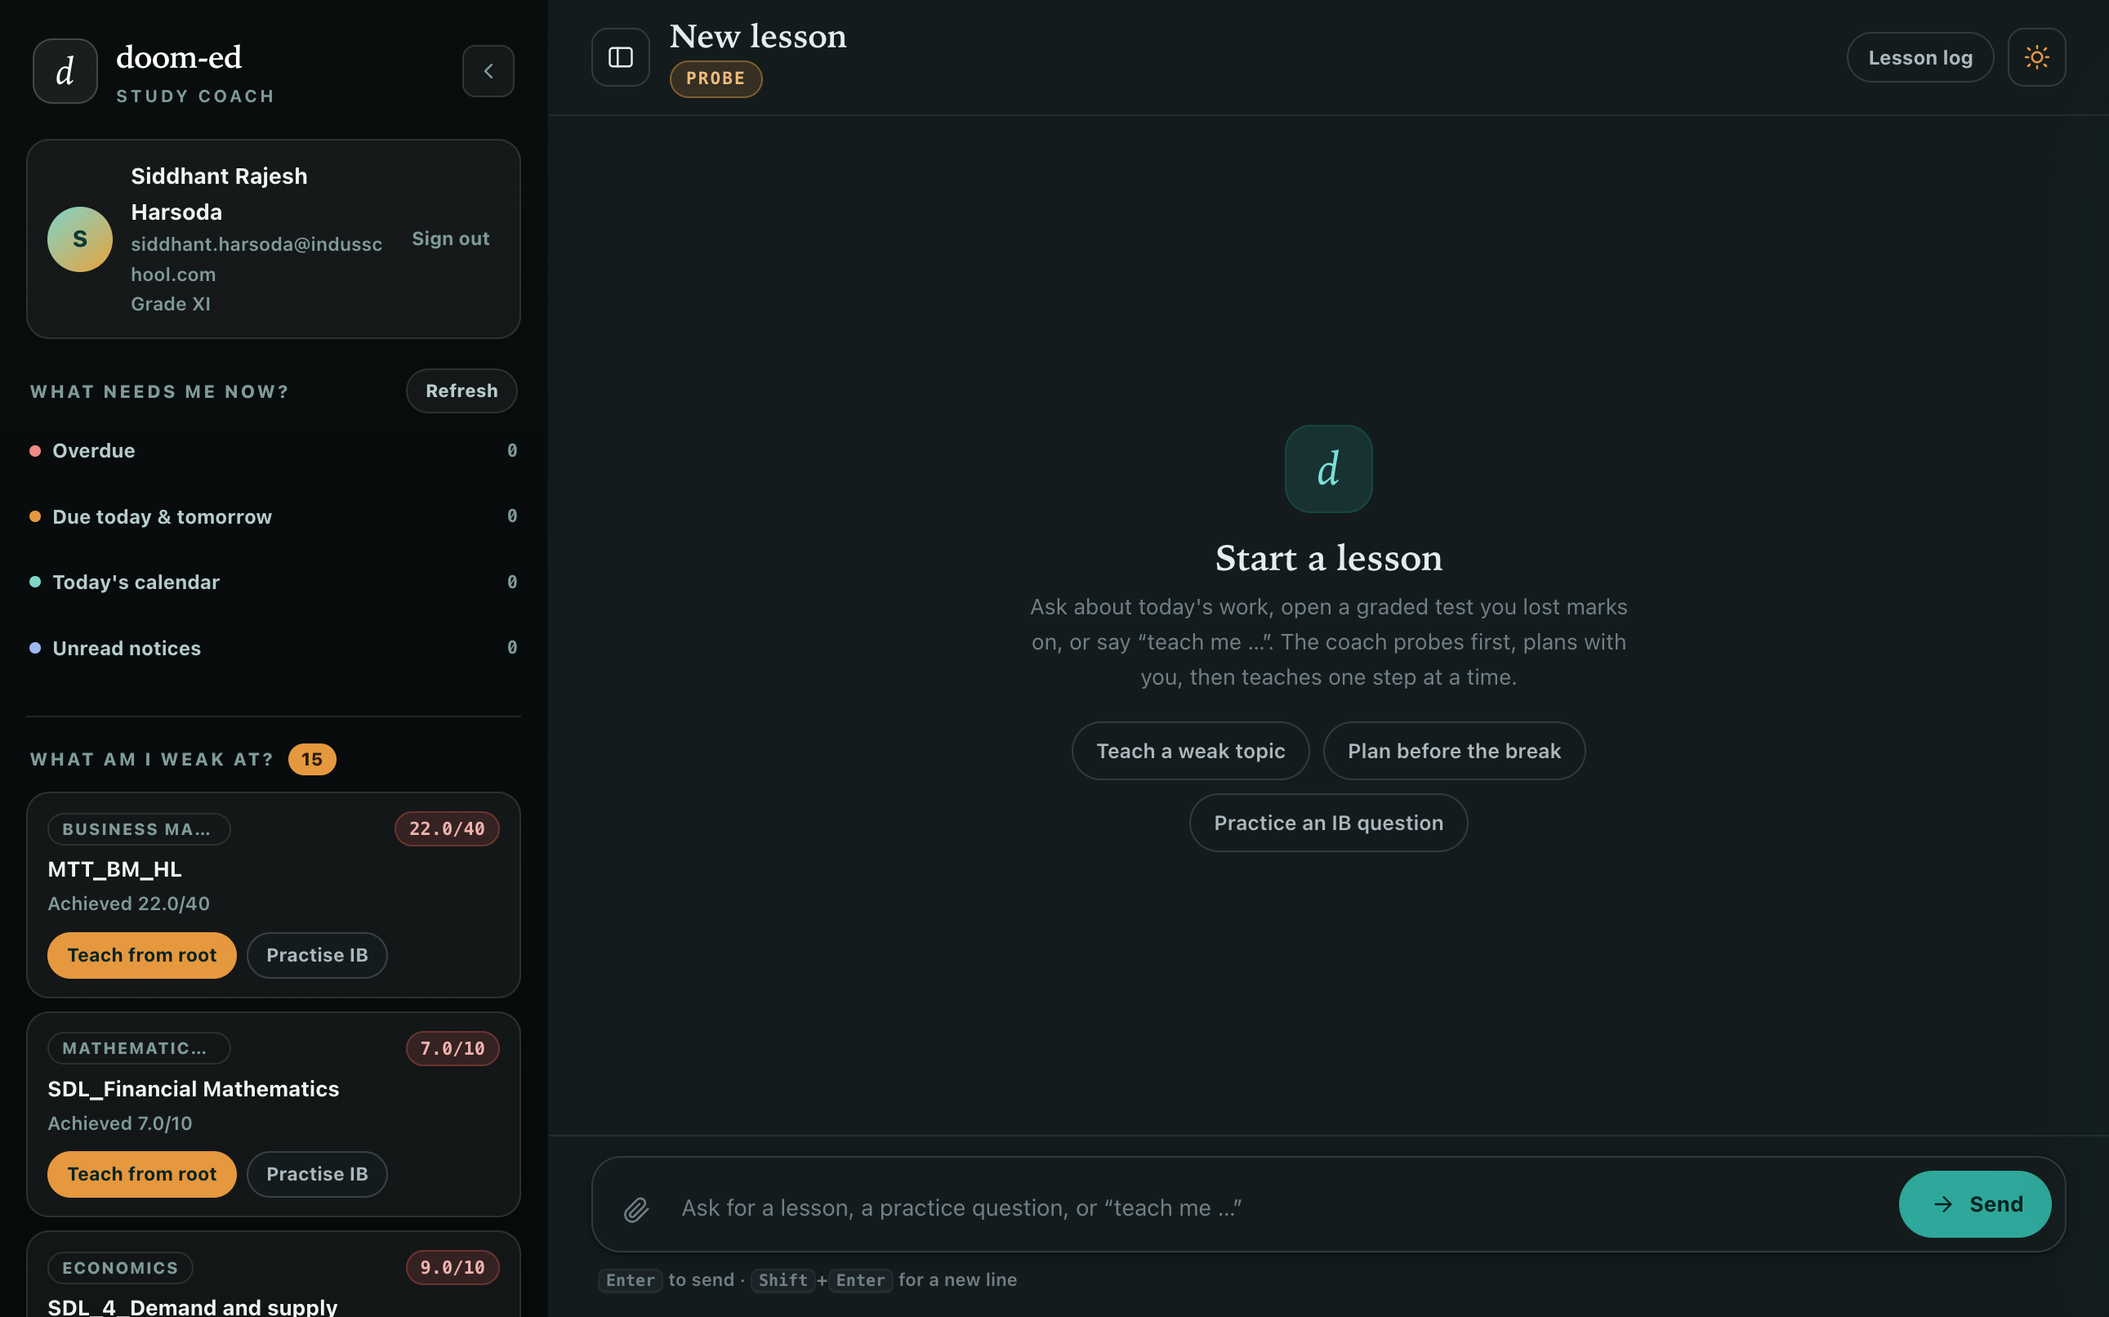
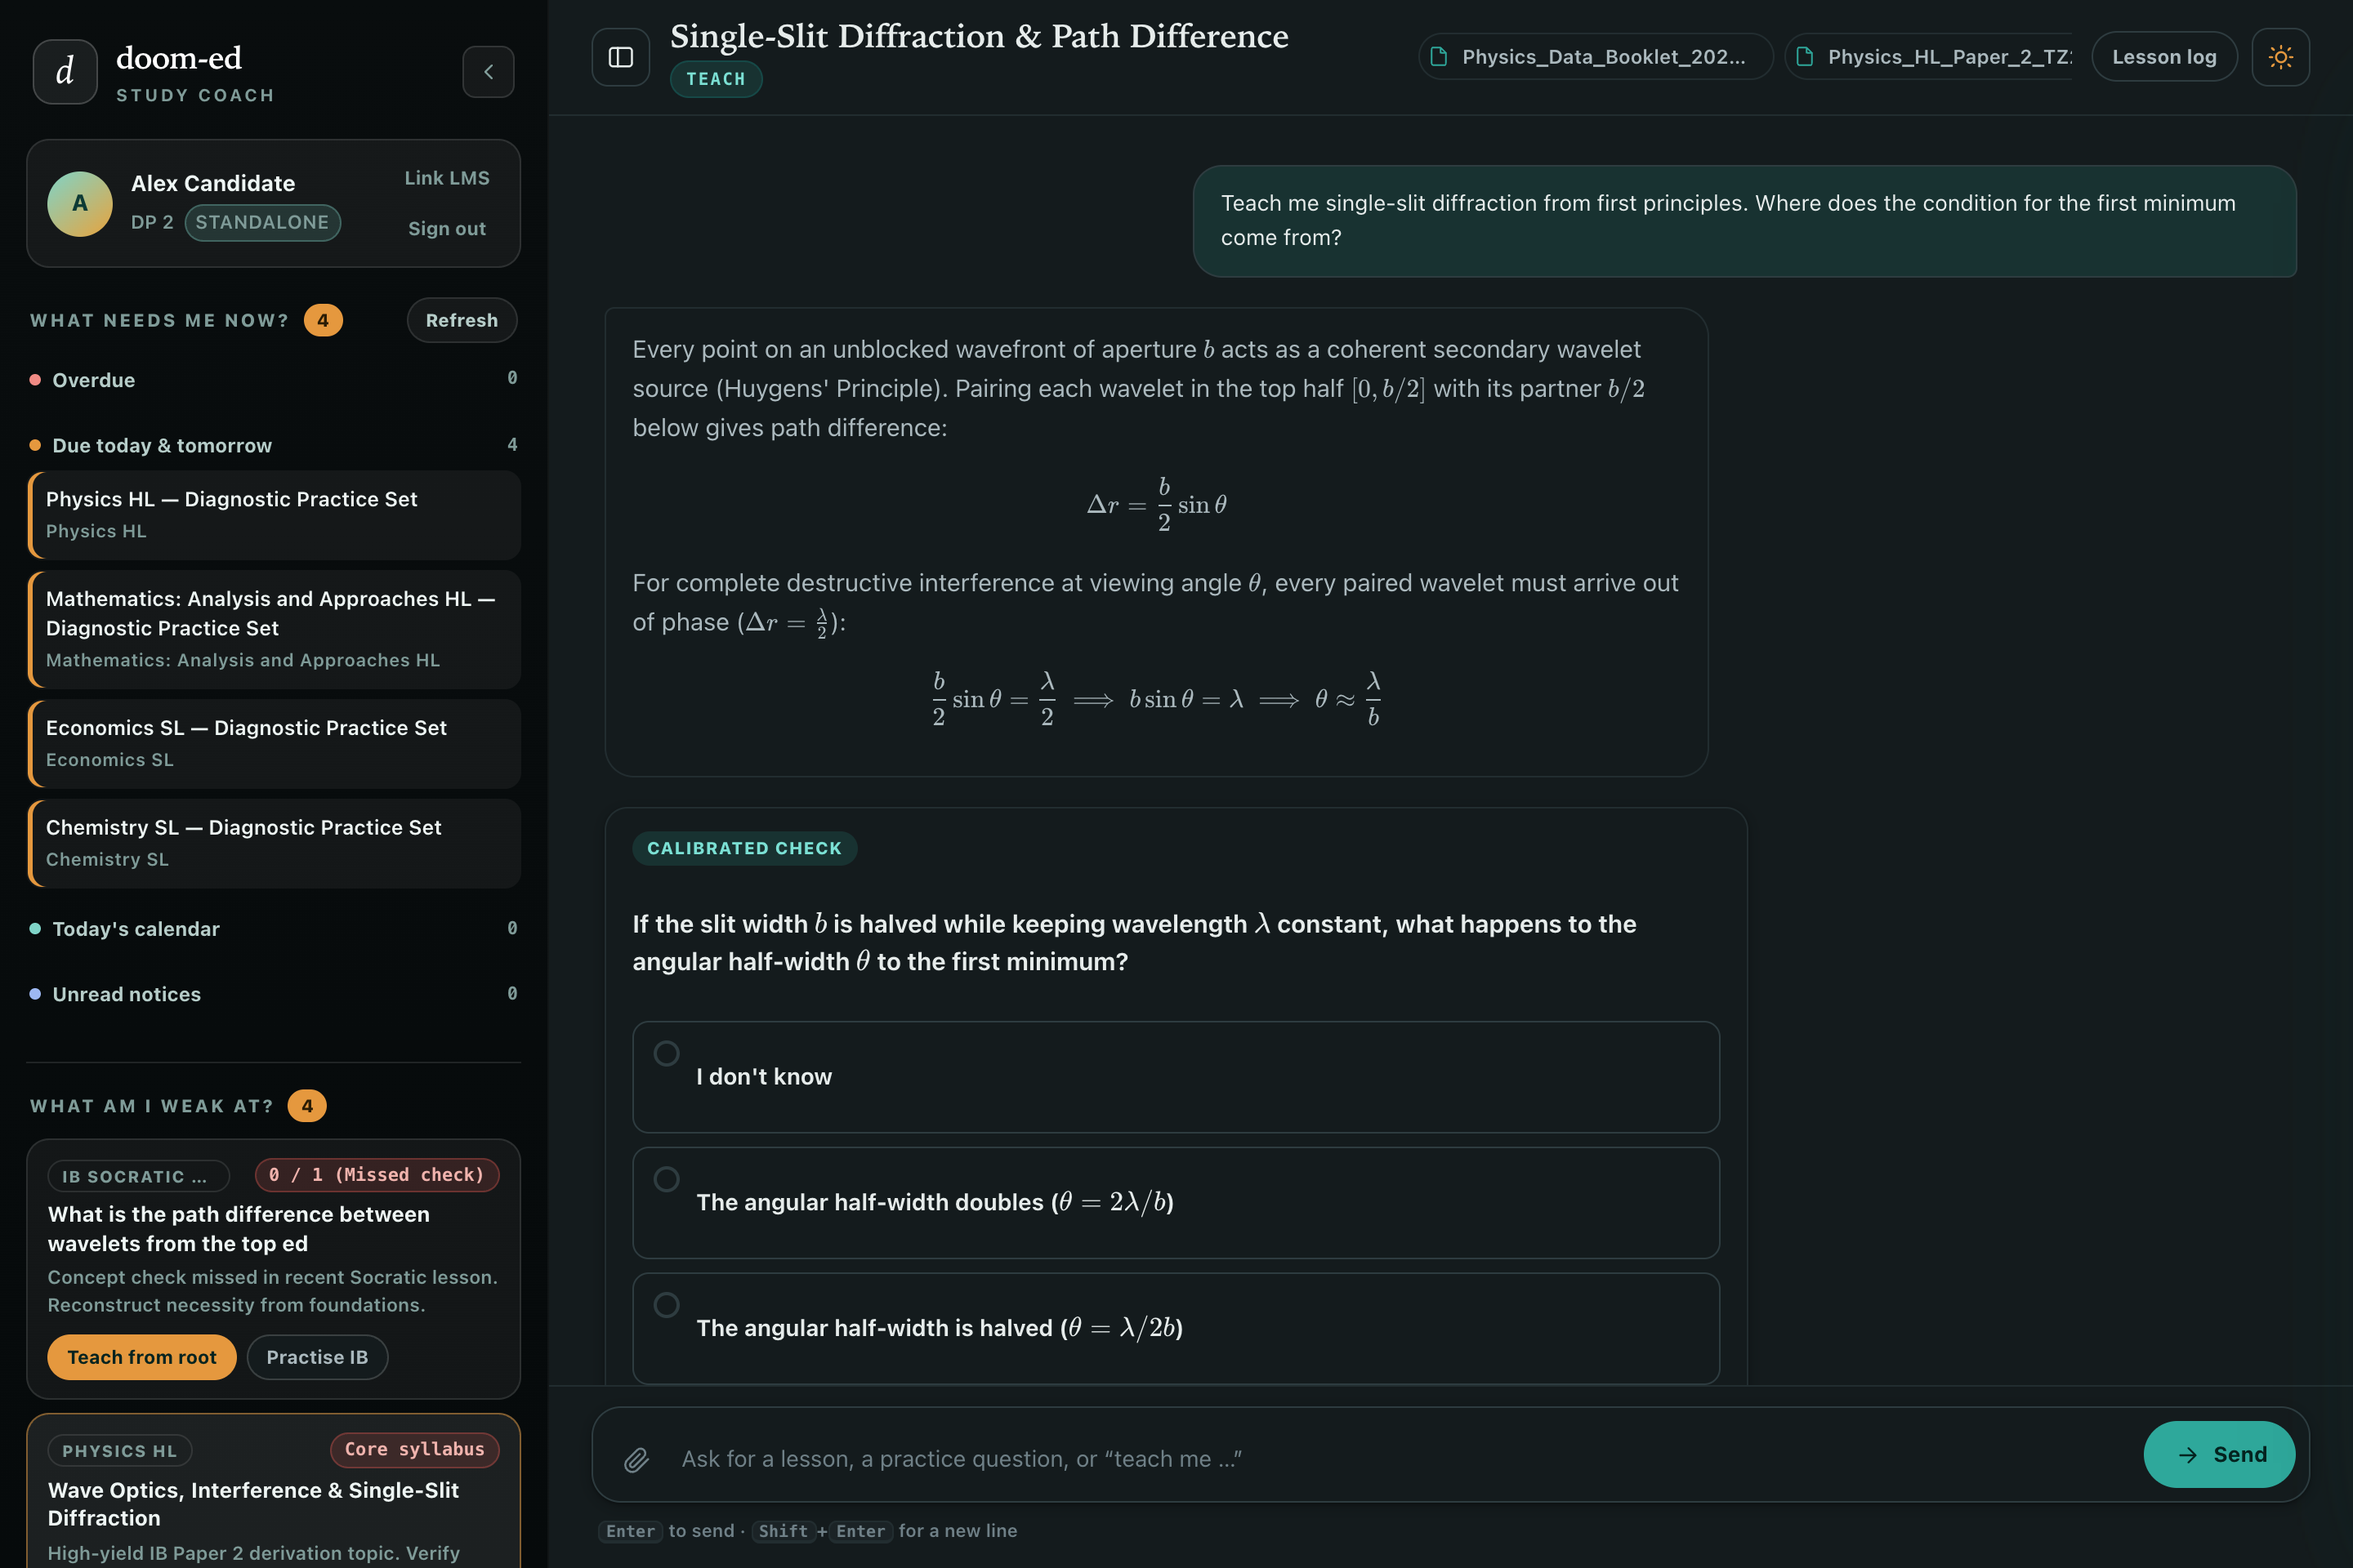
docs: update docs and refresh homepage screenshot with standalone ib ui
Update README, DOCS.md, and ARCHITECTURE.md to detail standalone
IB study and optional LMS sync. Replace docs/assets/homepage.png
with fresh high-DPI screenshot showcasing standalone profile,
IB diagnostic triage, Socratic chat, and concept check card.

diff --git a/web/assets/style.css b/web/assets/style.css
@@ -328,6 +328,7 @@ img, svg, video { max-width: 100%; }
 }
 .profile-id { flex: 1; min-width: 0; }
 .profile-id b { display: block; font-size: 13.5px; font-weight: 700; color: var(--lp-ink); overflow-wrap: anywhere; }
+.profile-meta-row { display: flex; align-items: center; gap: 6px; margin-top: 2px; }
 .profile-id span { display: block; font-size: 11.5px; font-weight: 600; color: var(--lp-muted); overflow-wrap: anywhere; }
 .profile-actions { display: flex; flex-direction: column; gap: 6px; align-items: stretch; }
 .signout-btn {
@@ -338,6 +339,8 @@ img, svg, video { max-width: 100%; }
 .signout-btn:hover { color: #f5a9a4; background: rgba(224, 106, 99, 0.14); }
 .lms-status-pill {
   display: inline-block;
+  white-space: nowrap;
+  flex-shrink: 0;
   padding: 1px 6px;
   border-radius: 999px;
   font-size: 10px;

diff --git a/web/index.html b/web/index.html
@@ -125,12 +125,12 @@
     <div id="profile-card" class="profile-card" title="Click to view student profile" hidden>
       <span id="profile-avatar" class="profile-avatar" aria-hidden="true">S</span>
       <div class="profile-id">
-        <div style="display:flex;align-items:center;gap:6px;">
-          <b id="profile-name">Student</b>
+        <b id="profile-name">Student</b>
+        <div class="profile-meta-row">
+          <span id="profile-grade"></span>
           <span id="lms-status-pill" class="lms-status-pill">Standalone</span>
         </div>
         <span id="profile-email"></span>
-        <span id="profile-grade"></span>
       </div>
       <div class="profile-actions">
         <button id="link-lms-btn" class="signout-btn" type="button" title="Link Indus LMS">Link LMS</button>

diff --git a/scripts/capture_screenshot.py b/scripts/capture_screenshot.py
@@ -1,0 +1,200 @@
+# SPDX-License-Identifier: GPL-3.0-or-later
+"""Script to capture a high-DPI screenshot of the doom-ed web application in standalone mode."""
+
+import json
+import os
+import socket
+import sys
+import threading
+import time
+from pathlib import Path
+
+import uvicorn
+from playwright.sync_api import sync_playwright
+
+from app.cache import clear as clear_cache
+from app.db import Database
+from app.main import app, db, session_store
+from app.sessions import Session
+
+
+def _find_free_port():
+    with socket.socket(socket.AF_INET, socket.SOCK_STREAM) as s:
+        s.bind(("127.0.0.1", 0))
+        return s.getsockname()[1]
+
+
+def capture():
+    clear_cache()
+    port = _find_free_port()
+    config = uvicorn.Config(app, host="127.0.0.1", port=port, log_level="warning")
+    server = uvicorn.Server(config)
+
+    thread = threading.Thread(target=server.run, daemon=True)
+    thread.start()
+
+    base_url = f"http://127.0.0.1:{port}"
+    start = time.time()
+    while time.time() - start < 10:
+        try:
+            with socket.create_connection(("127.0.0.1", port), timeout=1):
+                break
+        except OSError:
+            time.sleep(0.1)
+
+    # 1. Seed standalone session
+    sess = Session(
+        access="",
+        refresh="",
+        tenant="local",
+        uid="standalone_hero",
+        name="Alex Candidate",
+        email="",
+        grade="DP 2",
+        curriculum="DP",
+        subjects=[
+            "Physics HL",
+            "Mathematics: Analysis and Approaches HL",
+            "Economics SL",
+            "Chemistry SL",
+            "English A Literature HL",
+            "Spanish B SL",
+        ],
+        target_session="May 2026",
+    )
+    session_store.add(sess)
+
+    # 2. Seed a thread and messages
+    owner = sess.owner
+    db.delete_thread(owner, "th_hero_1")
+    t = db.create_thread(
+        owner=owner,
+        title="Single-Slit Diffraction & Path Difference",
+        topic="Physics HL: Wave Optics",
+        subject="Physics HL",
+        thread_id="th_hero_1",
+    )
+    db.update_thread(owner, "th_hero_1", phase="teach")
+
+    # Seed an unpassed quiz in database so weak topics shows it
+    db.create_quiz_state(
+        call_id="call_quiz_optics_1",
+        thread_id="th_hero_1",
+        owner=owner,
+        question="What is the path difference between wavelets from the top edge and center of a slit of width b at angle theta?",
+        options=["(b/2) sin(theta)", "b sin(theta)", "(b/2) cos(theta)", "b lambda"],
+        correct=[0],
+        explanation="Dividing the slit into two halves of width b/2 gives path difference (b/2) sin(theta) between corresponding rays.",
+    )
+    db.record_quiz_answer(
+        call_id="call_quiz_optics_1",
+        owner=owner,
+        user_answer=[1],
+        grade_result={
+            "correct": False,
+            "dontKnow": False,
+            "correct_options": [0],
+            "explanation": "Path difference is (b/2) sin(theta).",
+        },
+    )
+
+    # Add messages
+    user_q = "Teach me single-slit diffraction from first principles. Where does the condition for the first minimum come from?"
+    db.add_message("th_hero_1", "user", user_q)
+
+    assistant_reply = r"""Every point on an unblocked wavefront of aperture $b$ acts as a coherent secondary wavelet source (Huygens' Principle). Pairing each wavelet in the top half $[0, b/2]$ with its partner $b/2$ below gives path difference:
+
+$$\Delta r = \frac{b}{2} \sin \theta$$
+
+For complete destructive interference at viewing angle $\theta$, every paired wavelet must arrive out of phase ($\Delta r = \frac{\lambda}{2}$):
+
+$$\frac{b}{2} \sin \theta = \frac{\lambda}{2} \implies b \sin \theta = \lambda \implies \theta \approx \frac{\lambda}{b}$$"""
+    db.add_message("th_hero_1", "assistant", assistant_reply)
+
+    # Launch browser with retina scale
+    with sync_playwright() as p:
+        browser = p.chromium.launch(channel="chrome", headless=True)
+        # 1440x900 at 2x scale = 2880x1800 (clean retina resolution)
+        context = browser.new_context(
+            viewport={"width": 1440, "height": 960},
+            device_scale_factor=2,
+            color_scheme="dark",
+        )
+        context.add_cookies([
+            {
+                "name": "doomed_sid",
+                "value": sess.sid,
+                "domain": "127.0.0.1",
+                "path": "/",
+            }
+        ])
+
+        page = context.new_page()
+        page.goto(base_url)
+        page.wait_for_load_state("networkidle")
+
+        # Wait for thread list and triage to render
+        page.wait_for_selector(".thread-item", timeout=5000)
+        # Select the thread
+        page.click(".thread-item")
+        time.sleep(1.0)
+
+        # Inject attached file chip and active quiz card into the chat
+        page.evaluate("""async () => {
+            // 1. Ensure left pane is scrolled to top to show profile card and triage
+            const leftPane = document.getElementById('left-pane');
+            if (leftPane) leftPane.scrollTop = 0;
+
+            // 2. Add attached file chip in tray
+            const attachedTray = document.getElementById('attached-tray');
+            if (attachedTray) {
+                attachedTray.innerHTML = `
+                    <button class="file-chip" type="button" title="Physics_Data_Booklet_2026.pdf">
+                        <span class="chip-icon"><svg viewBox="0 0 24 24" fill="none" stroke="currentColor" stroke-width="1.8" stroke-linecap="round" stroke-linejoin="round" width="13" height="13"><path d="M14 2H6a2 2 0 0 0-2 2v16a2 2 0 0 0 2 2h12a2 2 0 0 0 2-2V8z"></path><polyline points="14 2 14 8 20 8"></polyline></svg></span>
+                        <span class="chip-name">Physics_Data_Booklet_2026.pdf</span>
+                    </button>
+                    <button class="file-chip" type="button" title="Physics_HL_Paper_2_TZ2.pdf">
+                        <span class="chip-icon"><svg viewBox="0 0 24 24" fill="none" stroke="currentColor" stroke-width="1.8" stroke-linecap="round" stroke-linejoin="round" width="13" height="13"><path d="M14 2H6a2 2 0 0 0-2 2v16a2 2 0 0 0 2 2h12a2 2 0 0 0 2-2V8z"></path><polyline points="14 2 14 8 20 8"></polyline></svg></span>
+                        <span class="chip-name">Physics_HL_Paper_2_TZ2.pdf</span>
+                    </button>
+                `;
+            }
+
+            // 3. Render authentic quiz card
+            const { renderQuizCard } = await import('/assets/cards.js');
+            const cardData = {
+                card_type: 'quiz',
+                call_id: 'call_live_check_1',
+                question: 'If the slit width $b$ is halved while keeping wavelength $\\\\lambda$ constant, what happens to the angular half-width $\\\\theta$ to the first minimum?',
+                options: [
+                    { index: 1, label: 'The angular half-width doubles ($\\\\theta = 2\\\\lambda / b$)' },
+                    { index: 2, label: 'The angular half-width is halved ($\\\\theta = \\\\lambda / 2b$)' },
+                    { index: 3, label: 'The central maximum intensity doubles but angular width is constant' }
+                ]
+            };
+            const mount = document.createElement('div');
+            mount.className = 'chat-card-mount';
+            const quizEl = renderQuizCard(cardData, () => {});
+            mount.appendChild(quizEl);
+            const msgList = document.getElementById('message-list');
+            if (msgList) {
+                msgList.appendChild(mount);
+                msgList.scrollTop = 140;
+            }
+        }""")
+
+        time.sleep(1.5)
+
+        out_path = Path("/Users/sid/Documents/proj/doom-ed/docs/assets/homepage.png")
+        page.screenshot(path=str(out_path))
+        print(f"Screenshot written to {out_path}")
+
+        context.close()
+        browser.close()
+
+    server.should_exit = True
+    thread.join(timeout=3)
+
+
+if __name__ == "__main__":
+    capture()

diff --git a/DOCS.md b/DOCS.md
@@ -81,22 +81,21 @@ Error codes the browser handles:
 
 | Code | Meaning | Client behaviour |
 |---|---|---|
-| `401` | No session, expired session, or the Indus LMS token is invalid. | Sign-in prompt, and a toast naming the expired session. |
+| `401` | No session, or expired session cookie. | Sign-in modal or 1-click independent session button shown. |
 | `403` | The student tried to read a file outside their `owner` scope, or asked about a live/unsubmitted test. | Message shown, request refused. |
 | `502` | Indus LMS or the IB catalog failed upstream. | Toast with the upstream detail. |
 
-`GET /api/session` returns `200` with a `profile_error` field when the session is valid but the LMS profile call failed. So the shell still renders while the student sees what is missing.
+`GET /api/session` returns `200` with a `profile_error` field when the session is valid but the optional LMS sync call failed. So the shell still renders in standalone mode while the student sees what is missing.
 
 ---
 
-## 1.8 Expired Indus token
+## 1.8 Expired Indus token & standalone fallback
 
 The Indus LMS access token expires on its own schedule, independently of the doom-ed session. When that happens:
 
-1. The last known payload stays on screen. It's the student's own data, and an empty page helps nobody.
-2. The response carries an `auth_error` field, and a banner appears above the chat with a **"Sign in again"** action. It stays up until a successful sign-in, so stale numbers are never mistaken for live ones.
-3. The stale copy is only served inside the persistent cache window (one hour by default). Past that the API returns `401` and the student must sign in.
-4. A successful sign-in clears the banner and reloads the triage.
+1. The student remains authenticated in doom-ed in standalone IB mode with full access to their subjects, Socratic lessons, concept checks, and the 53,000+ IB resource bank.
+2. If LMS was previously linked, the response carries an `auth_error` field, and a banner appears above the chat with a **"Sign in again"** action. It stays up until a successful sign-in, so stale numbers are never mistaken for live ones.
+3. A successful sign-in clears the banner and merges school triage back into the IB study dashboard.
 
 ---
 
@@ -138,7 +137,8 @@ The teacher agent has 12 specialized tools:
 
 ### 2.1 Loop guards
 
-The agent takes at most 12 autonomous tool turns per user message. Two guards keep it from stalling:
+The agent takes at most 12 autonomous tool turns per user message. Three guards keep it from stalling:
 
 - **Duplicate call suppression**: a tool call with an identical name and identical arguments is answered once. A repeat returns `{"status": "duplicate"}` and points the model at the earlier result.
 - **Prose before cards**: the teacher prompt requires a short lead-in paragraph before every `quiz` call, so the student reads the reason for the check before the card appears.
+- **Standalone LMS redirection**: when running without an active Indus LMS connection, `search_lms_files`, `browse_lms_folder`, and `confirm_lms_write` immediately return an informative fallback redirecting the agent to `search_ib_resources` without consuming unnecessary search cycles.

diff --git a/ARCHITECTURE.md b/ARCHITECTURE.md
@@ -61,8 +61,9 @@ flowchart TB
 ## 2. Multi-tenant security and storage isolation
 
 1. **Owner Scoping (`tenant:uid`)**:
-   - Students at the same school share an Indus LMS `tenant`, but have distinct `uid`.
-   - Every session, cache key, FTS5 metadata row, chat thread, and file ACL entry is strictly scoped by `owner = f"{tenant}:{uid}"`.
+   - Standalone sessions use `owner = "local:{uid}"` (`local:student`), ensuring zero external service or tenant dependencies.
+   - For Indus LMS linked sessions, students share an Indus LMS `tenant`, but have distinct `uid`, scoped by `owner = f"{tenant}:{uid}"`.
+   - Every session, cache key, FTS5 metadata row, chat thread, and file ACL entry is strictly scoped by `owner`.
    - Student A can't view or search Student B's courses, files, grades, or chat threads even within the same tenant.
 2. **Mandatory File ACL Gate (`file_access` Table)**:
    - File downloads via `/api/files/{sha256}` and document reading tools (`read_document`, `search_within_document`, `inspect_document_pages`) execute:
